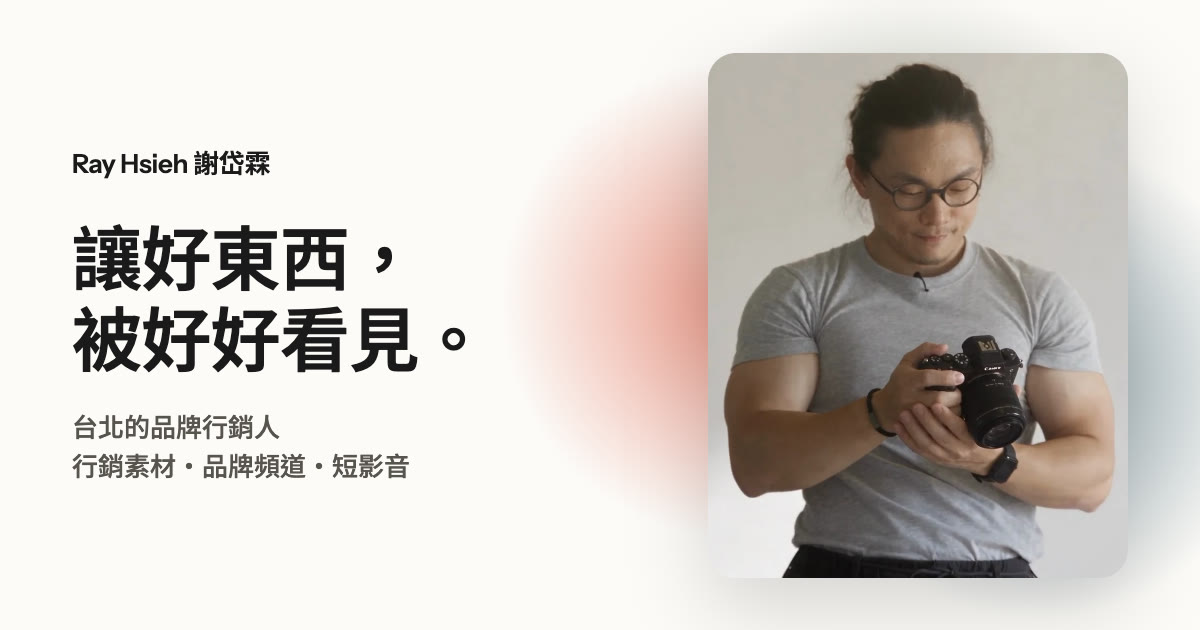
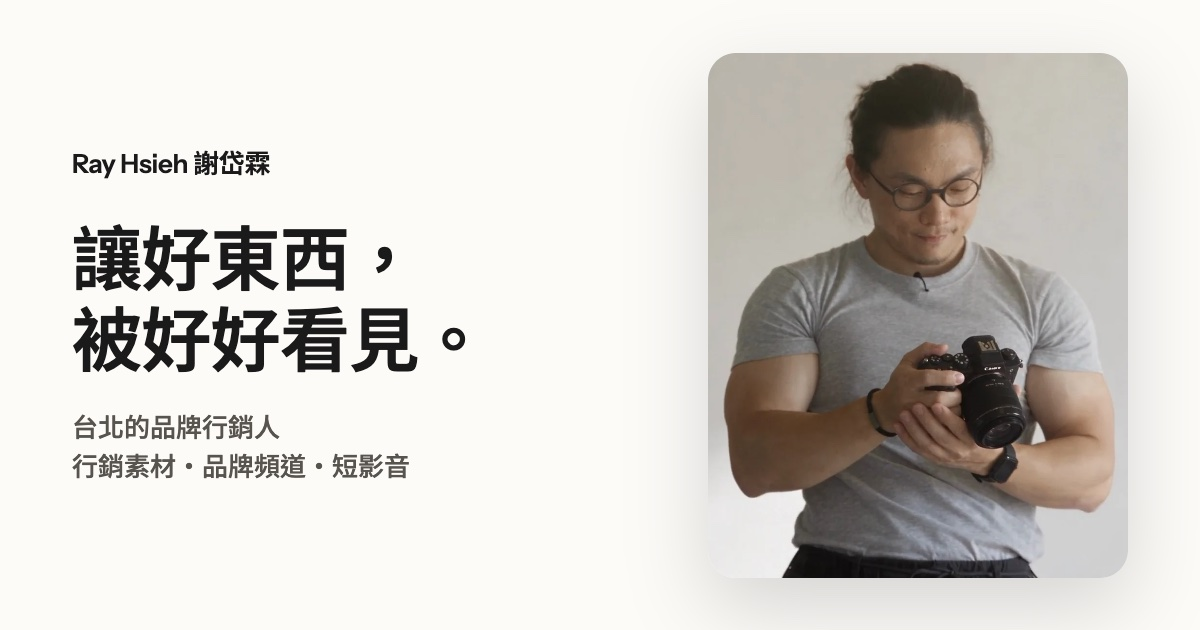
分享預覽圖 v4：拿掉三色光暈（og:image 網址加版本號）

Changed region(s): [[0.4625, 0.181, 0.6167, 0.7841], [0.925, 0.3317, 1.0, 0.8444]]

diff --git a/index.html b/index.html
@@ -8,7 +8,7 @@
 <meta property="og:type" content="website">
 <meta property="og:title" content="謝岱霖 Ray Hsieh｜品牌行銷・短影音">
 <meta property="og:description" content="謝岱霖（Ray Hsieh），台北的品牌行銷人：行銷素材、品牌頻道與短影音，從企劃、拍攝到剪輯一手完成。">
-<meta property="og:image" content="https://rrrayhsieh.github.io/portfolio/assets/og.jpg">
+<meta property="og:image" content="https://rrrayhsieh.github.io/portfolio/assets/og.jpg?v=5b87df66">
 <meta name="twitter:card" content="summary_large_image">
 <meta name="theme-color" content="#fcfbf8">
 <link rel="icon" href="favicon.svg" type="image/svg+xml">

diff --git a/contact.html b/contact.html
@@ -8,7 +8,7 @@
 <meta property="og:type" content="website">
 <meta property="og:title" content="聯絡｜謝岱霖 Ray Hsieh">
 <meta property="og:description" content="告訴我你的專案類型、需求與預算，我會回信附上做法與報價。">
-<meta property="og:image" content="https://rrrayhsieh.github.io/portfolio/assets/og.jpg">
+<meta property="og:image" content="https://rrrayhsieh.github.io/portfolio/assets/og.jpg?v=5b87df66">
 <meta name="twitter:card" content="summary_large_image">
 <meta name="theme-color" content="#fcfbf8">
 <link rel="icon" href="favicon.svg" type="image/svg+xml">

diff --git a/work.html b/work.html
@@ -8,7 +8,7 @@
 <meta property="og:type" content="website">
 <meta property="og:title" content="作品｜謝岱霖 Ray Hsieh">
 <meta property="og:description" content="品牌影片、線上課程與短影音作品，每件附目標、分工與成果。">
-<meta property="og:image" content="https://rrrayhsieh.github.io/portfolio/assets/og.jpg">
+<meta property="og:image" content="https://rrrayhsieh.github.io/portfolio/assets/og.jpg?v=5b87df66">
 <meta name="twitter:card" content="summary_large_image">
 <meta name="theme-color" content="#fcfbf8">
 <link rel="icon" href="favicon.svg" type="image/svg+xml">

diff --git a/about.html b/about.html
@@ -8,7 +8,7 @@
 <meta property="og:type" content="website">
 <meta property="og:title" content="關於｜謝岱霖 Ray Hsieh">
 <meta property="og:description" content="謝岱霖是誰、在哪裡、擅長什麼，以及為什麼找他拍片。">
-<meta property="og:image" content="https://rrrayhsieh.github.io/portfolio/assets/og.jpg">
+<meta property="og:image" content="https://rrrayhsieh.github.io/portfolio/assets/og.jpg?v=5b87df66">
 <meta name="twitter:card" content="summary_large_image">
 <meta name="theme-color" content="#fcfbf8">
 <link rel="icon" href="favicon.svg" type="image/svg+xml">
